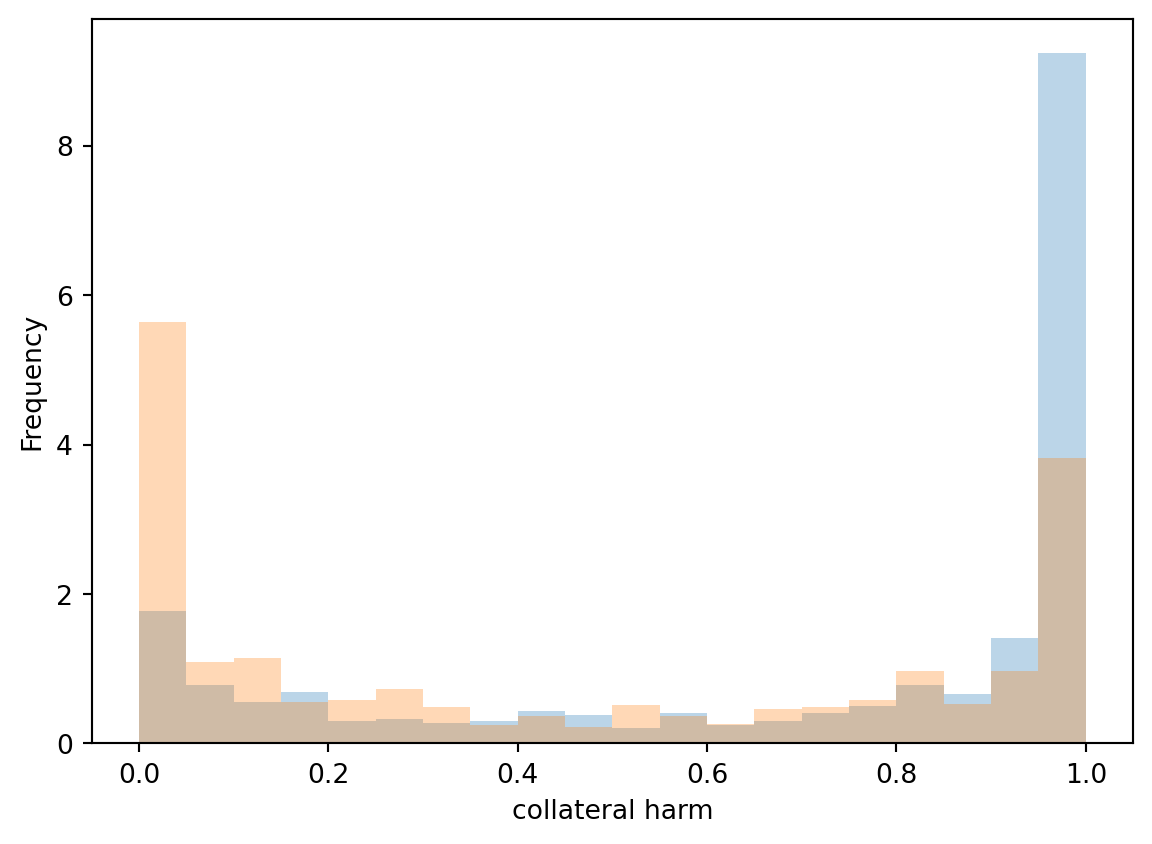
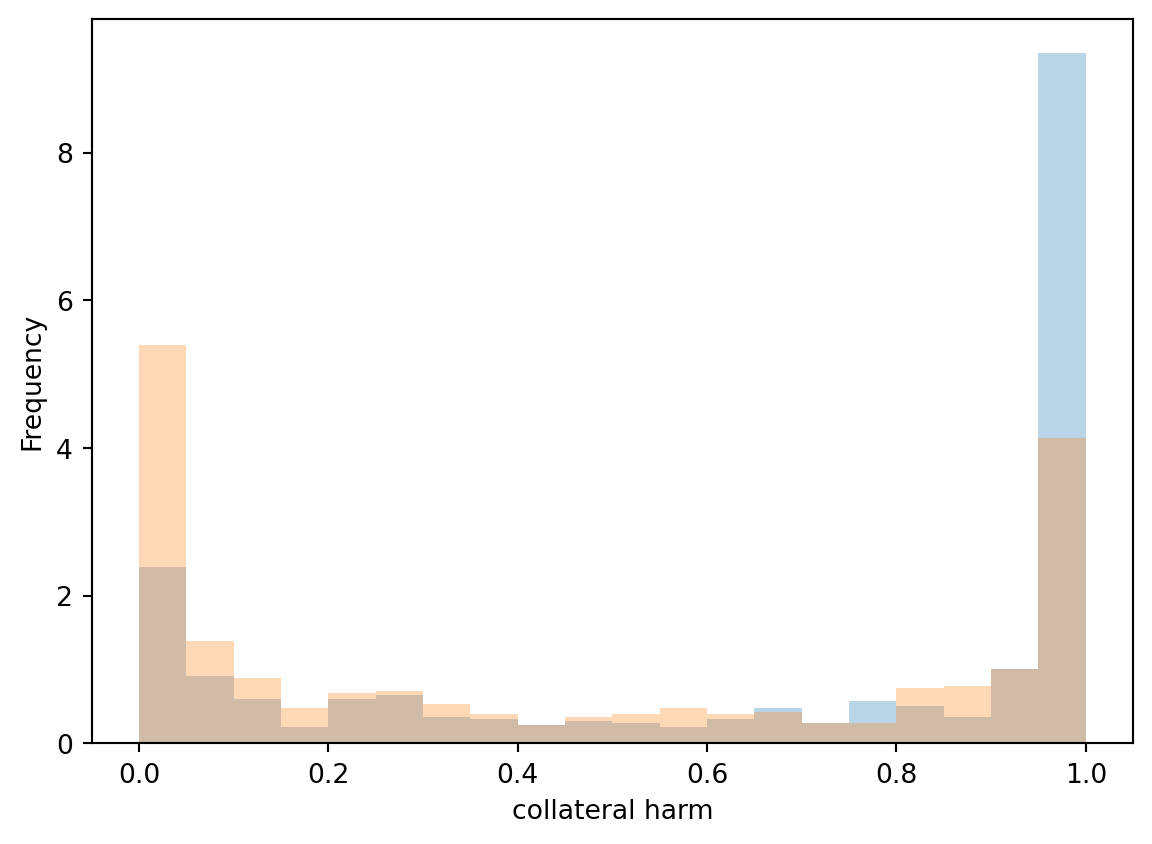
fix latex

diff --git a/experiments/_site/fig-5.html b/experiments/_site/fig-5.html
@@ -208,7 +208,7 @@
 <span id="cb2-23"><a href="#cb2-23" aria-hidden="true" tabindex="-1"></a>plt.show()</span></code><button title="Copy to Clipboard" class="code-copy-button"><i class="bi"></i></button></pre></div>
 </details>
 <div class="cell-output-stdout">
-<pre><code>Community means: 0.9093462469733656, 0.7262722646310433</code></pre>
+<pre><code>Community means: 0.9022596754057428, 0.7535894357743097</code></pre>
 </div>
 <div class="cell-output-display">
 <p><img src="fig-5_files/figure-html/cell-3-output-2.png" width="576" height="422"></p>
@@ -227,7 +227,7 @@
 <span id="cb4-5"><a href="#cb4-5" aria-hidden="true" tabindex="-1"></a>plt.show()</span></code><button title="Copy to Clipboard" class="code-copy-button"><i class="bi"></i></button></pre></div>
 </details>
 <div class="cell-output-stdout">
-<pre><code>Community means: 0.9998062953995158, 0.977086513994911</code></pre>
+<pre><code>Community means: 0.9994007490636704, 0.9865786314525811</code></pre>
 </div>
 <div class="cell-output-display">
 <p><img src="fig-5_files/figure-html/cell-4-output-2.png" width="593" height="422"></p>
@@ -263,7 +263,7 @@
 <span id="cb6-22"><a href="#cb6-22" aria-hidden="true" tabindex="-1"></a>plt.show()</span></code><button title="Copy to Clipboard" class="code-copy-button"><i class="bi"></i></button></pre></div>
 </details>
 <div class="cell-output-stdout">
-<pre><code>Community means: 0.6354339622641509, 0.3515513126491647</code></pre>
+<pre><code>Community means: 0.6276779026217228, 0.36409594095940956</code></pre>
 </div>
 <div class="cell-output-display">
 <p><img src="fig-5_files/figure-html/cell-5-output-2.png" width="589" height="422"></p>
@@ -286,7 +286,7 @@
 <span id="cb8-9"><a href="#cb8-9" aria-hidden="true" tabindex="-1"></a>plt.show()</span></code><button title="Copy to Clipboard" class="code-copy-button"><i class="bi"></i></button></pre></div>
 </details>
 <div class="cell-output-stdout">
-<pre><code>Community means: 0.6315374841168997, 0.35034188034188035</code></pre>
+<pre><code>Community means: 0.6254477611940299, 0.36116770186335406</code></pre>
 </div>
 <div class="cell-output-display">
 <p><img src="fig-5_files/figure-html/cell-6-output-2.png" width="589" height="422"></p>
@@ -310,10 +310,10 @@
 <span id="cb10-10"><a href="#cb10-10" aria-hidden="true" tabindex="-1"></a>plt.show()</span></code><button title="Copy to Clipboard" class="code-copy-button"><i class="bi"></i></button></pre></div>
 </details>
 <div class="cell-output-stdout">
-<pre><code>Community means: 0.6309367088607596, 0.3506416464891041</code></pre>
+<pre><code>Community means: 0.6313853904282116, 0.3688790931989924</code></pre>
 </div>
 <div class="cell-output-display">
-<p><img src="fig-5_files/figure-html/cell-7-output-2.png" width="576" height="422"></p>
+<p><img src="fig-5_files/figure-html/cell-7-output-2.png" width="589" height="422"></p>
 </div>
 </div>
 </section>
@@ -329,7 +329,7 @@
 <span id="cb12-5"><a href="#cb12-5" aria-hidden="true" tabindex="-1"></a>plt.show()</span></code><button title="Copy to Clipboard" class="code-copy-button"><i class="bi"></i></button></pre></div>
 </details>
 <div class="cell-output-stdout">
-<pre><code>Community means: 0.7054936708860758, 0.4455084745762712</code></pre>
+<pre><code>Community means: 0.6713476070528966, 0.45294710327455917</code></pre>
 </div>
 <div class="cell-output-display">
 <p><img src="fig-5_files/figure-html/cell-8-output-2.png" width="576" height="422"></p>
@@ -374,7 +374,7 @@
 <span id="cb14-28"><a href="#cb14-28" aria-hidden="true" tabindex="-1"></a>plt.show()</span></code><button title="Copy to Clipboard" class="code-copy-button"><i class="bi"></i></button></pre></div>
 </details>
 <div class="cell-output-stdout">
-<pre><code>Community means: 0.897223974763407, 0.737057453416149</code></pre>
+<pre><code>Community means: 0.9081350482315113, 0.7208816705336426</code></pre>
 </div>
 <div class="cell-output-display">
 <p><img src="fig-5_files/figure-html/cell-9-output-2.png" width="576" height="422"></p>
@@ -393,17 +393,17 @@
 <span id="cb16-5"><a href="#cb16-5" aria-hidden="true" tabindex="-1"></a>plt.show()</span></code><button title="Copy to Clipboard" class="code-copy-button"><i class="bi"></i></button></pre></div>
 </details>
 <div class="cell-output-stdout">
-<pre><code>Community means: 0.9765615141955838, 0.8983540372670807</code></pre>
+<pre><code>Community means: 0.9718006430868168, 0.8780201082753288</code></pre>
 </div>
 <div class="cell-output-display">
-<p><img src="fig-5_files/figure-html/cell-10-output-2.png" width="597" height="427"></p>
+<p><img src="fig-5_files/figure-html/cell-10-output-2.png" width="597" height="422"></p>
 </div>
 </div>
 </section>
 <section id="a-sbm-based-1" class="level2">
 <h2 class="anchored" data-anchor-id="a-sbm-based-1">3a, SBM-based</h2>
 <p>This is not exactly comparable because since the overall sizes changed, there are now fewer essential workers, so to make vaccination rate difference match the degree difference, we need to change the parameters.</p>
-<p>We arrive at <span class="math inline">\(s_1\)</span>, <span class="math inline">\(s_2\)</span> by solving the system $ s_1 = s_2  $, $ 400 s_1 + 1600 s_2 = 200 $.</p>
+<p>We arrive at <span class="math inline">\(s_1\)</span>, <span class="math inline">\(s_2\)</span> by solving the system <span class="math inline">\(s_1 = s_2 \times 1.5\)</span>, <span class="math inline">\(400 s_1 + 1600 s_2 = 200\)</span>.</p>
 <div class="cell" data-execution_count="10">
 <p></p><details>
 <summary>Code</summary><p></p>
@@ -431,10 +431,10 @@
 <span id="cb18-22"><a href="#cb18-22" aria-hidden="true" tabindex="-1"></a>plt.show()</span></code><button title="Copy to Clipboard" class="code-copy-button"><i class="bi"></i></button></pre></div>
 </details>
 <div class="cell-output-stdout">
-<pre><code>Community means: 0.6441895261845386, 0.3625187032418953</code></pre>
+<pre><code>Community means: 0.6342477876106194, 0.34765830346475507</code></pre>
 </div>
 <div class="cell-output-display">
-<p><img src="fig-5_files/figure-html/cell-11-output-2.png" width="584" height="422"></p>
+<p><img src="fig-5_files/figure-html/cell-11-output-2.png" width="589" height="422"></p>
 </div>
 </div>
 
@@ -653,7 +653,7 @@
 <span id="cb20-228"><a href="#cb20-228" aria-hidden="true" tabindex="-1"></a>now fewer essential workers, so to make vaccination rate difference match the</span>
 <span id="cb20-229"><a href="#cb20-229" aria-hidden="true" tabindex="-1"></a>degree difference, we need to change the parameters.</span>
 <span id="cb20-230"><a href="#cb20-230" aria-hidden="true" tabindex="-1"></a></span>
-<span id="cb20-231"><a href="#cb20-231" aria-hidden="true" tabindex="-1"></a>We arrive at $s_1$, $s_2$ by solving the system $ s_1 = s_2 \times 1.5 $, $ 400 s_1 + 1600 s_2 = 200 $.</span>
+<span id="cb20-231"><a href="#cb20-231" aria-hidden="true" tabindex="-1"></a>We arrive at $s_1$, $s_2$ by solving the system $s_1 = s_2 \times 1.5$, $400 s_1 + 1600 s_2 = 200$.</span>
 <span id="cb20-232"><a href="#cb20-232" aria-hidden="true" tabindex="-1"></a></span>
 <span id="cb20-235"><a href="#cb20-235" aria-hidden="true" tabindex="-1"></a><span class="in">```{python}</span></span>
 <span id="cb20-236"><a href="#cb20-236" aria-hidden="true" tabindex="-1"></a>params <span class="op">=</span> {}</span>
